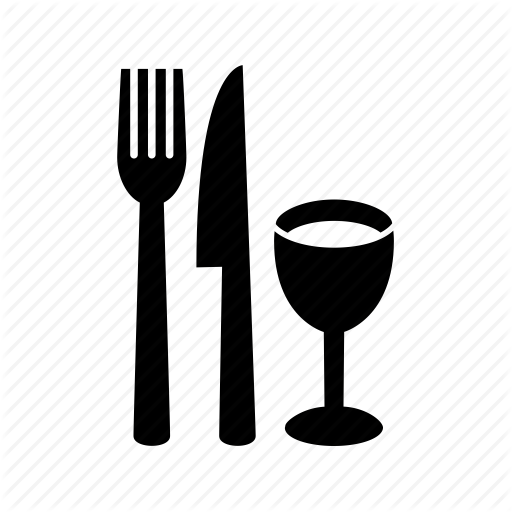
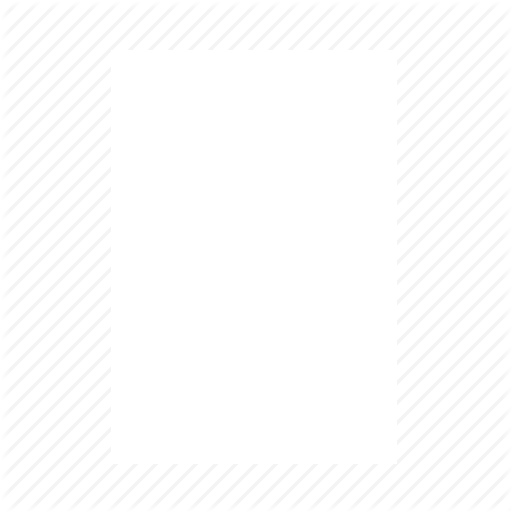
some css stuff

Changed region(s): [[0.2188, 0.125, 0.5, 0.875], [0.5312, 0.375, 0.7812, 0.875]]

diff --git a/client/components/result.jsx b/client/components/result.jsx
@@ -1,31 +1,31 @@
-// const React = require('react');
-// const ReactDOM = require('react-dom');
-//
-// class Result extends React.Component {
-//   constructor(props) {
-//     super(props);
-//     this.details = this.props.result;
-//   }
-//
-//   render() {
-//     return (
-//       <div className="jumbotron Col xs={12} md={6}">
-//         <h5 className="btn btn-danger" style={{float: 'left', margin: '-25px 0 10px 0'}}>{this.details.restaurant}</h5>
-//         <div className="card-block card w-100 text-center" style={{paddingTop: '7px'}}>
-//           <p className="lead">{this.details.item}</p>
-//           <div className="row justify-content-md-center">
-//             <p className="text-justify" style={{maxWidth: '80%'}}>{this.details.description}</p>
-//           </div>
-//           <h6>
-//             <p><strong>Location:</strong> {this.details.location}</p>
-//           </h6>
-//           <h6>
-//             <p><strong>Price:</strong> ${this.details.price}</p>
-//           </h6>
-//         </div>
-//       </div>
-//     )
-//   }
-// }
-//
-// module.exports = Result;
+const React = require('react');
+const ReactDOM = require('react-dom');
+
+class Result extends React.Component {
+  constructor(props) {
+    super(props);
+    this.details = this.props.result;
+  }
+
+  render() {
+    return (
+      <div className="jumbotron Col xs={12} md={6}">
+        <h5 className="btn btn-danger" style={{float: 'left', margin: '-25px 0 10px 0'}}>{this.details.restaurant}</h5>
+        <div className="card-block card w-100 text-center" style={{paddingTop: '7px'}}>
+          <p className="lead">{this.details.item}</p>
+          <div className="row justify-content-md-center">
+            <p className="text-justify" style={{maxWidth: '80%'}}>{this.details.description}</p>
+          </div>
+          <h6>
+            <p><strong>Location:</strong> {this.details.location}</p>
+          </h6>
+          <h6>
+            <p><strong>Price:</strong> ${this.details.price}</p>
+          </h6>
+        </div>
+      </div>
+    )
+  }
+}
+
+module.exports = Result;

diff --git a/client/index.jsx b/client/index.jsx
@@ -1,7 +1,7 @@
 const Nav = require('./components/nav.jsx');
 const Search = require('./components/search.jsx');
-// const ResultsList = require('./components/results-list.jsx');
-// const Sampledata = require('./sampledata/sampledata.js');
+const ResultsList = require('./components/results-list.jsx');
+const Sampledata = require('./sampledata/sampledata.js');
 const React = require('react');
 const ReactDom = require('react-dom');
 const $ = require('jquery');
@@ -11,7 +11,8 @@ class App extends React.Component {
     super(props);
     this.state = {
       currFoodSearched: '',
-      currLocationSearched: ''
+      currLocationSearched: '',
+      list: Sampledata
     };
   }
 
@@ -37,11 +38,18 @@ class App extends React.Component {
 
     $.ajax({
       method: 'POST',
-      url: '/searchResults',
-      data: currentSearchTermsObj,
-    }).done(function(data) {
-      console.log('data on the client thats already came back from the server', data);
-    });
+      url: 'http://www.localhost:3000',
+      data: query,
+      contentType: 'application/json',
+      success: function(data) {
+        this.setState({
+          list: data
+        });
+      },
+      error: function(err) {
+        console.log('API call failed!', err);
+      }
+    }).bind(this);
   }
 
   render() {
@@ -56,7 +64,7 @@ class App extends React.Component {
           handleSubmit={this.handleSubmit.bind(this)}
         />
         <div className="container">
-          {/* <ResultsList list={this.state.list} /> */}
+          <ResultsList list={this.state.list} />
         </div>
       </div>
     );

diff --git a/client/components/results-list.jsx b/client/components/results-list.jsx
@@ -1,26 +1,26 @@
-// const React = require('react');
-// const ReactDOM = require('react-dom');
-// const Result = require('./result.jsx');
-//
-// class ResultsList extends React.Component {
-//   constructor(props) {
-//     super(props);
-//
-//   }
-//
-//   render() {
-//     console.log('this is the list data', this.props.list)
-//
-//     return (
-//       <div style={{'marginTop': '50px', float: 'left'}} >
-//
-//       <h3> Results: </h3>
-//       {this.props.list.map((result, i) => {
-//         return (<Result key={i} result={result} />);
-//       })};
-//     </div>
-//     )
-//   }
-// }
-//
-// module.exports = ResultsList;
+const React = require('react');
+const ReactDOM = require('react-dom');
+const Result = require('./result.jsx');
+
+class ResultsList extends React.Component {
+  constructor(props) {
+    super(props);
+
+  }
+
+  render() {
+    console.log('this is the list data', this.props.list);
+
+    return (
+      <div style={{'marginTop': '50px', float: 'left'}} >
+
+      <h3> Results: </h3>
+      {this.props.list.map((result, i) => {
+        return (<Result key={i} result={result} />);
+      })};
+    </div>
+    )
+  }
+}
+
+module.exports = ResultsList;

diff --git a/client/components/search.jsx b/client/components/search.jsx
@@ -1,12 +1,12 @@
 const React = require('react');
-let query = {};
 
 const Search = ({currFoodSearched, currLocationSearched, handleFoodUserSearch, handleLocationUserSearch, handleSubmit}) => (
   <form
     onSubmit={() => { handleSubmit(currFoodSearched, currLocationSearched); }}
     className="form-inline container"
     id="search-boxes">
-    <div clss="form-group">
+    <img className="img-responsive text-center" id="main-food-pic" src="img/restaurant-icon.png" />
+    <div class="form-group">
       <input
         onChange={handleFoodUserSearch}
 

diff --git a/client/dist/styles/styles.css b/client/dist/styles/styles.css
@@ -14,8 +14,15 @@ body {
 .navbar a {
   color: #CDD0D6;
 }
+
+#main-food-pic {
+  height: 132px;
+  padding-right: 5%;
+}
+
 #search-boxes {
-  margin-top: 250px;
+  margin-top: 155px;
+  padding-left: 5%;
 }
 
 .form-control {
